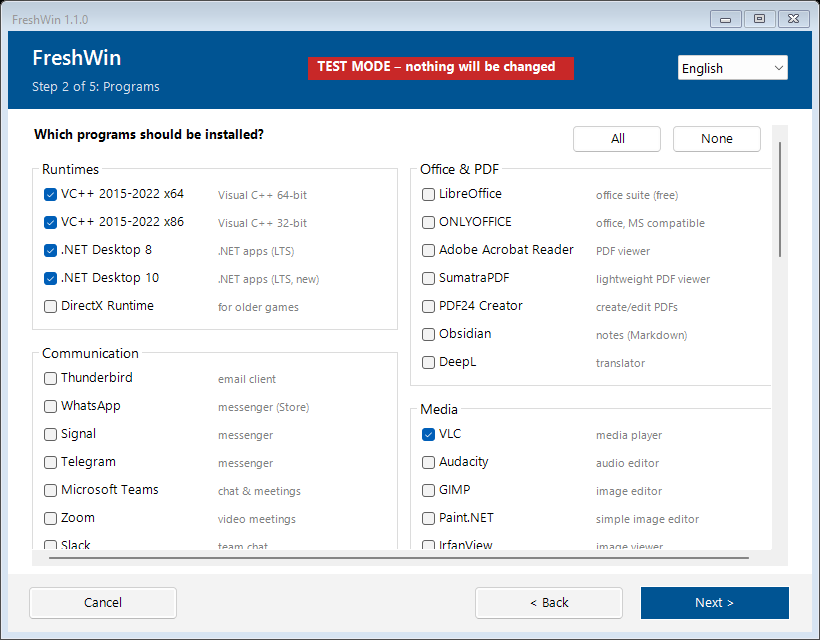
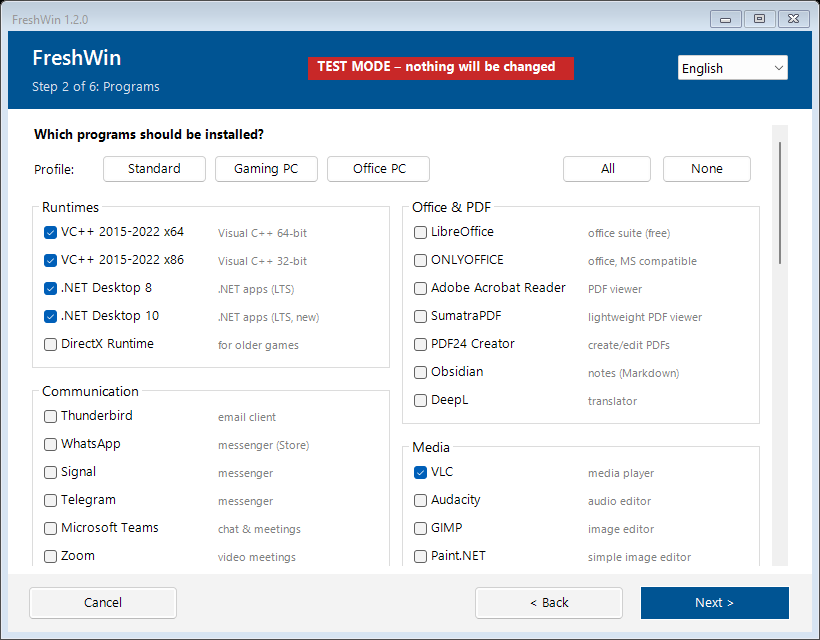
Add Gaming PC / Office PC profiles and appearance page
- Profile buttons on the programs page check suitable programs and
  preset the appearance page; NVIDIA App only with an NVIDIA GPU
- New appearance step: dark/light mode, taskbar alignment and search,
  classic context menu, hidden files, Copilot button, End task,
  Num Lock, mouse acceleration, Sticky Keys prompt
- Appearance settings also go to the default profile; Explorer is
  restarted at the end so they take effect
- Narrower program groups, no horizontal scroll bar
- Version 1.2.0

diff --git a/README.de.md b/README.de.md
@@ -8,6 +8,7 @@ alle Updates installieren, fertig. Keine Installation, keine Abhängigkeiten.
 
 ![Browserauswahl](docs/browser-de.png)
 ![Programmauswahl](docs/programs-de.png)
+![Darstellung](docs/appearance-de.png)
 
 ## Funktionen
 
@@ -18,6 +19,11 @@ alle Updates installieren, fertig. Keine Installation, keine Abhängigkeiten.
 - **Gaming**: Steam, Epic, Ubisoft Connect, EA app, Battle.net, GOG, Rockstar, Amazon Games, Xbox-App,
   Discord, TeamSpeak, Mumble, NVIDIA App, MSI Afterburner, Software für Mäuse/Headsets und mehr.
   Wer die Xbox-App auswählt, behält beim Aufräumen die Xbox-Komponenten
+- **Profile**: *Gaming-PC* und *Büro-PC* haken mit einem Klick passende Programme an und belegen
+  die Darstellungsseite vor (die NVIDIA App nur, wenn eine NVIDIA-Grafikkarte verbaut ist)
+- **Darstellung**: Dunkel-/Hellmodus, Ausrichtung und Suche der Taskleiste, klassisches Rechtsklick-Menü,
+  versteckte Dateien anzeigen, Copilot-Schaltfläche ausblenden, „Task beenden“ in der Taskleiste,
+  NumLock beim Start, Mausbeschleunigung aus, Einrastfunktion-Abfrage aus
 - **Windows aufräumen**: entfernt vorinstallierte Consumer-Apps (Xbox, Bing News, Solitaire, Clipchamp …),
   schaltet Werbung, Vorschläge, die Bing-Suche im Startmenü und Widgets ab, setzt die Telemetrie auf Minimum,
   zeigt Dateiendungen an und deaktiviert den Schnellstart
@@ -63,6 +69,7 @@ Alle Listen stehen oben im PowerShell-Teil von `FreshWin.bat`:
 - `$AppCatalog` enthält die Programme nach Kategorie. `Id` ist die winget-ID (finden mit `winget search <Name>`;
   `Source = 'msstore'` für Apps aus dem Microsoft Store),
   `Def = $true` hakt das Programm beim Start an, `De`/`En` enthalten die Kurzbeschreibungen
+- `$Profiles` enthält die Profile (winget-IDs und Vorgaben für die Darstellung)
 - `$AppxRemove` enthält die vorinstallierten Apps, die entfernt werden
 - `$Strings` enthält alle Texte (Deutsch und Englisch)
 

diff --git a/README.md b/README.md
@@ -8,6 +8,7 @@ options, install all updates, and you're done. No installation, no dependencies.
 
 ![Browser selection](docs/browser-en.png)
 ![Program selection](docs/programs-en.png)
+![Appearance](docs/appearance-en.png)
 
 ## Features
 
@@ -18,6 +19,11 @@ options, install all updates, and you're done. No installation, no dependencies.
 - **Gaming**: Steam, Epic, Ubisoft Connect, EA app, Battle.net, GOG, Rockstar, Amazon Games, Xbox app,
   Discord, TeamSpeak, Mumble, NVIDIA App, MSI Afterburner, peripheral software and more.
   Selecting the Xbox app keeps the Xbox components when Windows is cleaned up
+- **Profiles**: *Gaming PC* and *Office PC* check suitable programs with one click and preset
+  the appearance page (the NVIDIA App is only added if an NVIDIA graphics card is present)
+- **Appearance**: dark/light mode, taskbar alignment and search, classic right-click menu,
+  show hidden files, hide Copilot button, "End task" in the taskbar, Num Lock at startup,
+  mouse acceleration off, Sticky Keys prompt off
 - **Clean up Windows**: removes preinstalled consumer apps (Xbox, Bing News, Solitaire, Clipchamp …),
   turns off ads, suggestions, Bing search in Start and widgets, sets telemetry to minimum,
   shows file extensions, disables Fast Startup
@@ -63,6 +69,7 @@ All lists are at the top of the PowerShell part of `FreshWin.bat`:
 - `$AppCatalog` lists programs by category. `Id` is the winget ID (find one with `winget search <name>`;
   `Source = 'msstore'` for Microsoft Store apps),
   `Def = $true` pre-checks the program, `De`/`En` hold the short descriptions
+- `$Profiles` defines the profiles (winget IDs plus appearance defaults)
 - `$AppxRemove` lists the preinstalled apps that get removed
 - `$Strings` holds all texts (German and English)
 
